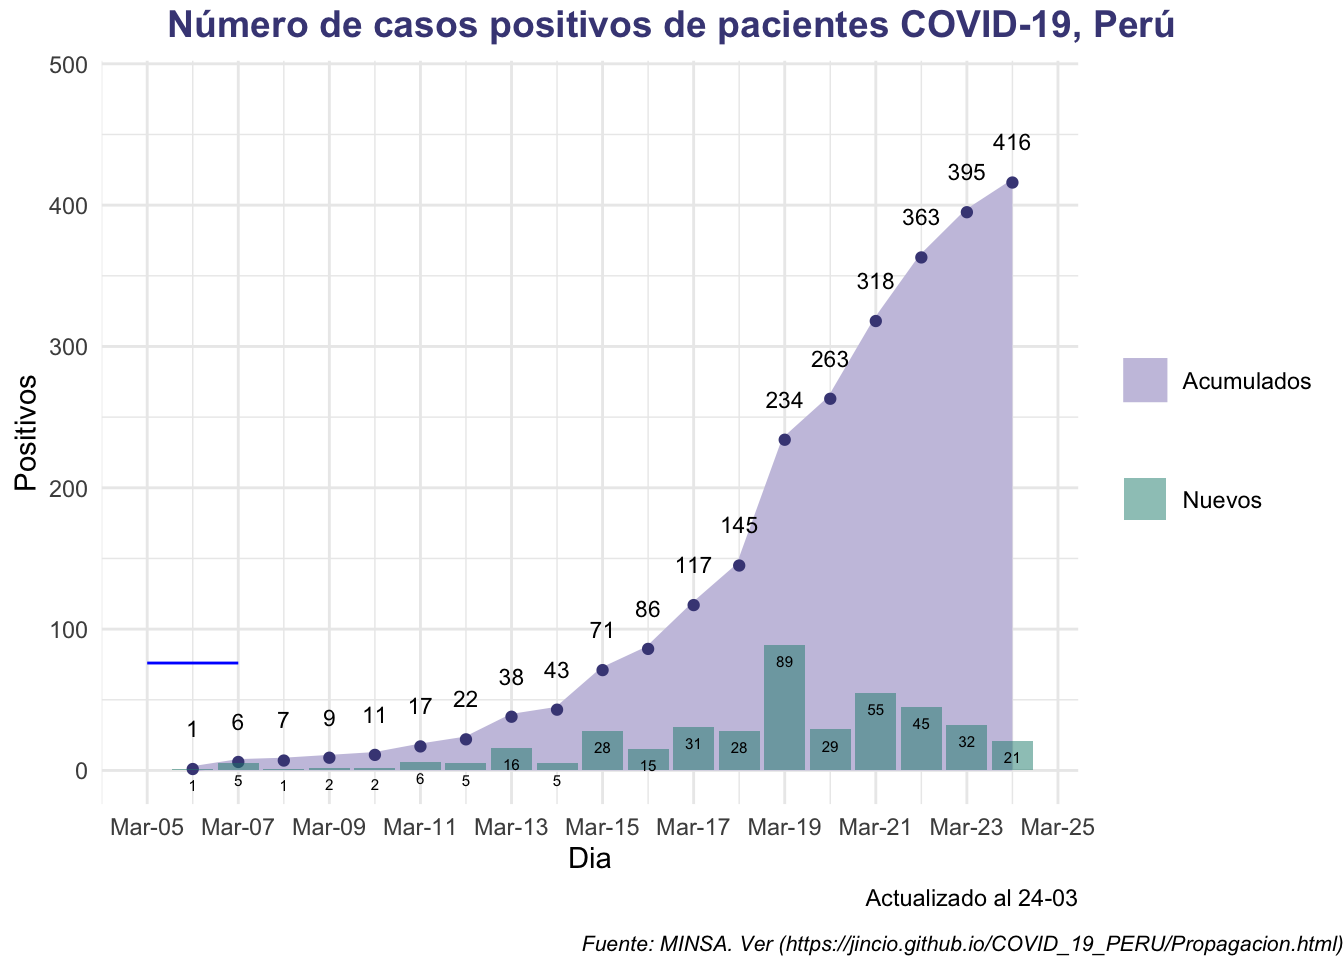
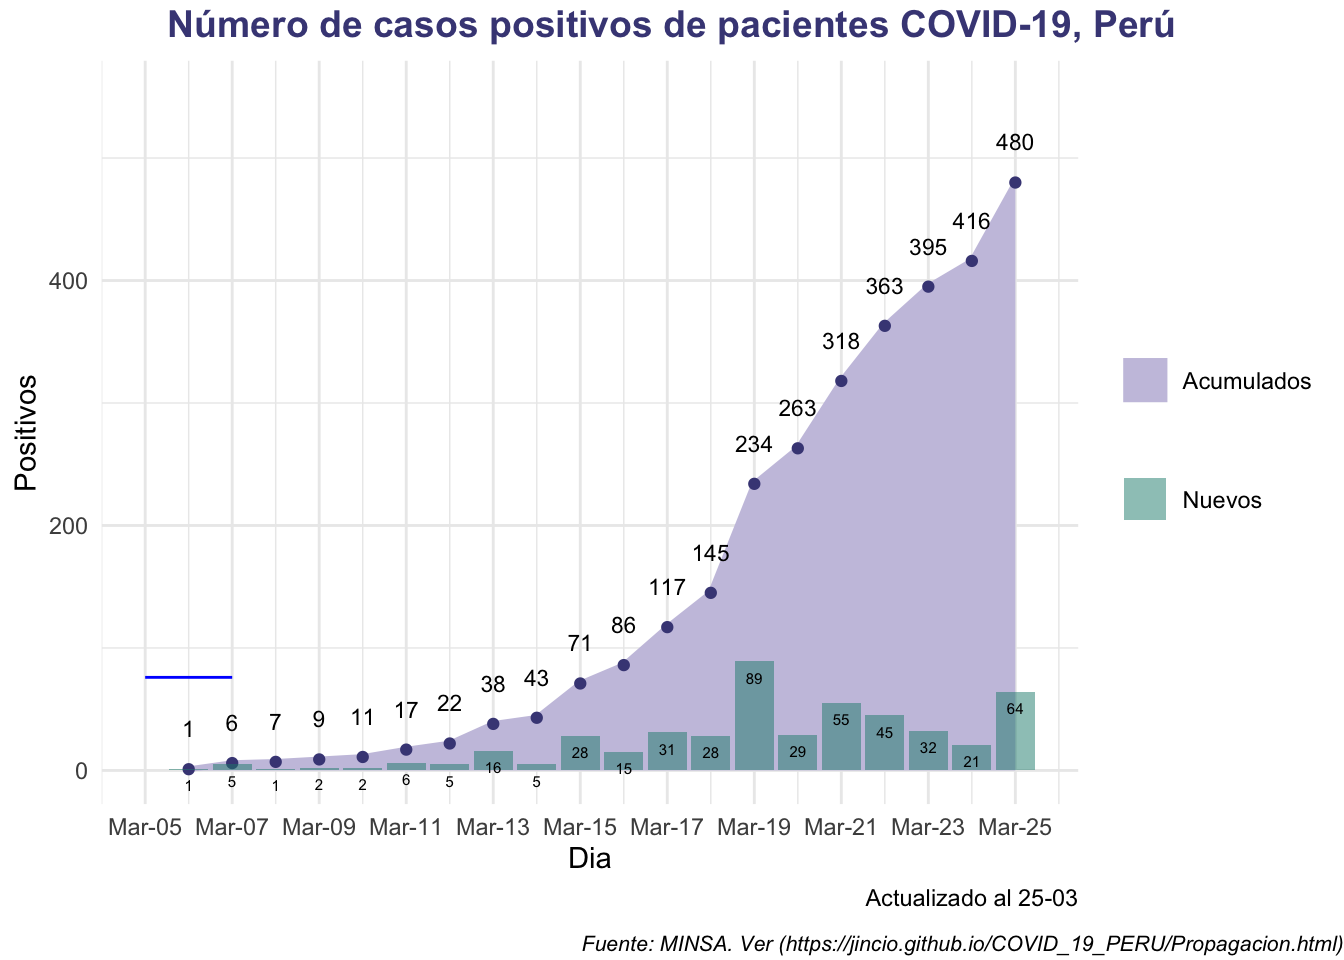
update 03/25

diff --git a/docs/Propagacion.html b/docs/Propagacion.html
@@ -737,6 +737,23 @@ Nuevos_Positivos
 21
 </td>
 </tr>
+<tr>
+<td style="text-align:left;">
+2020-03-25
+</td>
+<td style="text-align:right;">
+480
+</td>
+<td style="text-align:right;">
+8040
+</td>
+<td style="text-align:right;">
+1027
+</td>
+<td style="text-align:right;">
+64
+</td>
+</tr>
 </tbody>
 </table>
 <p>Para los gráficos he adaptado del post de Gabriel Carrasco Escobar (<a href="http://gcarrasco.rbind.io/blog/covid19_viz/" class="uri">http://gcarrasco.rbind.io/blog/covid19_viz/</a>)</p>
